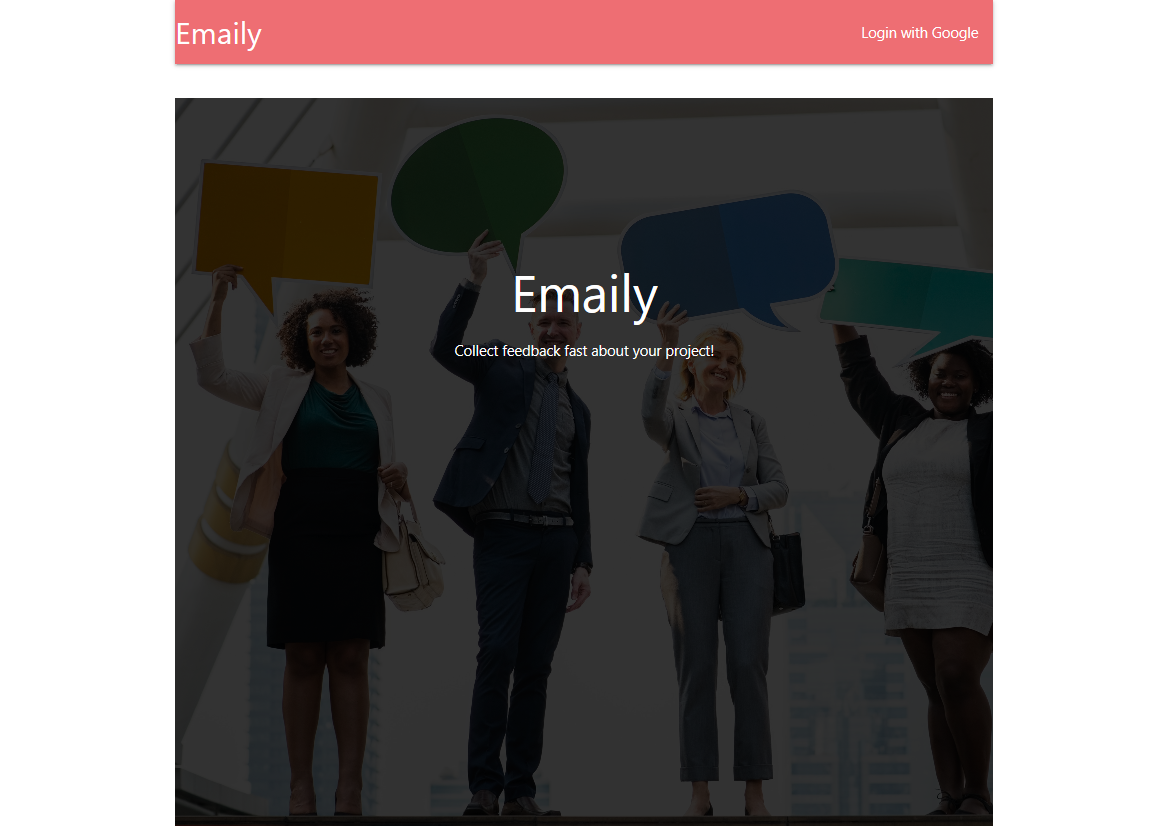
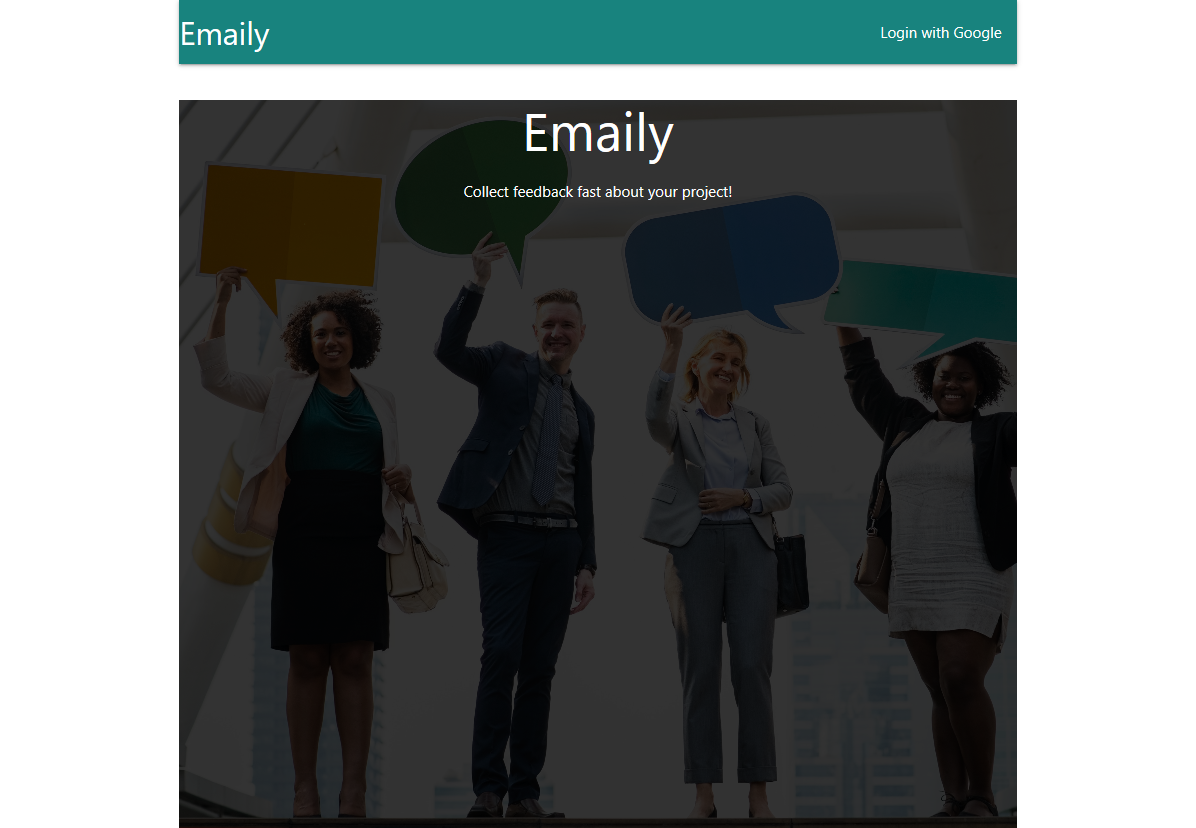
updated style

diff --git a/client/src/App.css b/client/src/App.css
@@ -8,3 +8,6 @@
     height: 100vh;
     color: white;
 }
+.nav-wrapper{
+    background-color: #18837e;
+}
